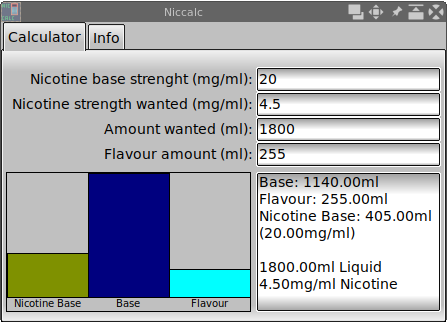
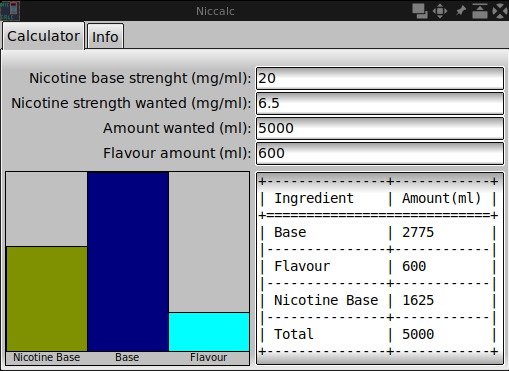
new version

diff --git a/src/main.rs b/src/main.rs
@@ -1,39 +1,41 @@
 #![windows_subsystem = "windows"]
 mod calculate_nic;
 pub use crate::calculate_nic::calculate_nic;
-use fltk::{image, app::*, group::*, input::*, output::*, text::*, window::*};
+use comfy_table::Table;
+use fltk::{app::*, group::*, image, input::*, output::*, text::*, window::*};
 fn main() {
     let icon_data = include_bytes!("niccalc.png");
     let img = image::PngImage::from_data(icon_data).unwrap();
     let app = App::default().with_scheme(AppScheme::Gleam);
-    let mut wind = Window::new(0, 0, 445, 300, "Niccalc");
-    let mut tabs = Tabs::new(0, 0, 445, 300, "");
+    let mut wind = Window::new(0, 0, 510, 350, "Niccalc");
+    let mut tabs = Tabs::new(0, 0, 510, 350, "");
     tabs.end();
-    let mut calc_tab = Group::new(0, 27, 400, 283, "Calculator");
+    let mut calc_tab = Group::new(0, 27, 510, 310, "Calculator");
     calc_tab.end();
     tabs.add(&calc_tab);
-    let mut input_shotstr = FloatInput::new(255, 45, 185, 25, "Nicotine base strenght (mg/ml):");
+    let mut input_shotstr = FloatInput::new(255, 45, 250, 25, "Nicotine base strenght (mg/ml):");
     calc_tab.add(&input_shotstr);
-    let mut input_targstr = FloatInput::new(255, 70, 185, 25, "Nicotine strength wanted (mg/ml):");
+    let mut input_targstr = FloatInput::new(255, 70, 250, 25, "Nicotine strength wanted (mg/ml):");
     calc_tab.add(&input_targstr);
-    let mut input_targvol = FloatInput::new(255, 95, 185, 25, "Amount wanted (ml):");
+    let mut input_targvol = FloatInput::new(255, 95, 250, 25, "Amount wanted (ml):");
     calc_tab.add(&input_targvol);
-    let mut input_aromavol = FloatInput::new(255, 120, 185, 25, "Flavour amount (ml):");
+    let mut input_aromavol = FloatInput::new(255, 120, 250, 25, "Flavour amount (ml):");
     calc_tab.add(&input_aromavol);
-    let mut output_result = MultilineOutput::new(255, 150, 185, 140, "");
+    let mut output_result = MultilineOutput::new(255, 150, 250, 195, "");
     calc_tab.add(&output_result);
-    let mut chart = fltk::misc::Chart::new(5, 150, 245, 140, "");
+    let mut chart = fltk::misc::Chart::new(5, 150, 245, 195, "");
     calc_tab.add(&chart);
-    let mut info_tab = Group::new(0, 27, 410, 273, "Info");
+    let mut info_tab = Group::new(0, 30, 500, 310, "Info");
     info_tab.end();
     info_tab.hide();
     tabs.add(&info_tab);
-    let mut info_display = TextDisplay::new(5, 30, 435, 265, "");
+    let mut info_display = TextDisplay::new(5, 30, 490, 330, "");
     info_tab.add(&info_display);
     let help_and_license =
         include_str!("README.md").to_owned() + "\n" + include_str!("LICENSE.txt");
     wind.set_icon(Some(img));
     let buffer = TextBuffer::default();
+    output_result.set_text_font(fltk::enums::Font::Courier);
     info_display.set_buffer(Some(buffer));
     info_display.wrap_mode(WrapMode::AtColumn, 55);
     info_display.set_scrollbar_size(15);
@@ -45,12 +47,10 @@ fn main() {
     input_shotstr.set_value(&format!("{}", 20.0));
     input_targstr.set_value(&format!("{}", 0.0));
     input_targvol.set_value(&format!("{}", 0.0));
-
     input_aromavol.set_trigger(CallbackTrigger::Changed);
     input_shotstr.set_trigger(CallbackTrigger::Changed);
     input_targstr.set_trigger(CallbackTrigger::Changed);
     input_targvol.set_trigger(CallbackTrigger::Changed);
-
     let (s, r) = fltk::app::channel::<bool>();
     input_aromavol.emit(s, true);
     input_shotstr.emit(s, true);
@@ -97,17 +97,28 @@ fn main() {
                 chart.set_type(fltk::misc::ChartType::Bar);
                 if inp_val_a == 0.0 {
                     let shots = calculate_nic(inp_val_tv, inp_val_ts, inp_val_s);
-                    output_result.set_value(&format!("Base: {:.2}ml \nFlavour: {:.2}ml \nNicotine base: {:.2}ml ({:.2}mg/ml)\n\n{:.2}ml Base {:.2}mg/ml Nicotine",
-                inp_val_tv - (shots  + inp_val_a), inp_val_a, shots, inp_val_s, inp_val_tv, inp_val_ts
-            ));
+                    let base = inp_val_tv - (shots + inp_val_a);
+
+                    let mut table = Table::new();
+                    table
+                        .set_header(vec!["Ingredient", "Amount(ml)"])
+                        .add_row(vec!["Base", &base.to_string()])
+                        .add_row(vec!["Nicotine Base", &shots.to_string()])
+                        .add_row(vec!["Total", &inp_val_tv.to_string()]);
+                    output_result.set_value(&format!("{}", table));
                     chart.insert(1, shots, "Nicotine base", Color::DarkYellow);
                     chart.insert(2, inp_val_tv - (shots + inp_val_a), "Base", Color::DarkBlue);
-                    chart.insert(3, inp_val_a, "Flavour", Color::Cyan);
                 } else {
                     let shots = calculate_nic(inp_val_tv, inp_val_ts, inp_val_s);
-                    output_result.set_value(&format!("Base: {:.2}ml \nFlavour: {:.2}ml \nNicotine Base: {:.2}ml ({:.2}mg/ml)\n\n{:.2}ml Liquid {:.2}mg/ml Nicotine",
-                inp_val_tv - (shots + inp_val_a), inp_val_a, shots, inp_val_s, inp_val_tv, inp_val_ts
-            ));
+                    let base = inp_val_tv - (shots + inp_val_a);
+                    let mut table = Table::new();
+                    table
+                        .set_header(vec!["Ingredient", "Amount(ml)"])
+                        .add_row(vec!["Base", &base.to_string()])
+                        .add_row(vec!["Flavour", &inp_val_a.to_string()])
+                        .add_row(vec!["Nicotine Base", &shots.to_string()])
+                        .add_row(vec!["Total", &inp_val_tv.to_string()]);
+                    output_result.set_value(&format!("{}", table));
                     chart.insert(1, shots, "Nicotine Base", Color::DarkYellow);
                     chart.insert(2, inp_val_tv - (shots + inp_val_a), "Base", Color::DarkBlue);
                     chart.insert(3, inp_val_a, "Flavour", Color::Cyan);

diff --git a/README.md b/README.md
@@ -6,7 +6,8 @@ Niccalc is a tool that helps to determine the necessary amount of nicotine for a
 all you have to do is enter the corresponding values in the input fields.
 The amount of flavor is optional.
 
-This software is written in Rust using the Rust bindings for the FLTK Graphical User Interface library [fltk-rs](https://crates.io/crates/fltk).
+This software is written in Rust using the Rust bindings for the FLTK Graphical User Interface library [fltk-rs](https://crates.io/crates/fltk)
+and [comfy-table](https://crates.io/crates/comfy-table).
 
 ![A screenshot](https://raw.githubusercontent.com/geri1701/niccalc/master/screenshots/niccalc_scrsh.png)
 
@@ -27,6 +28,3 @@ For all Windows users who are not able to compile something themselves or who ar
 
 Download:
 [win-executable](https://github.com/geri1701/niccalc/blob/master/binary/niccalc.exe)
-
-
-
